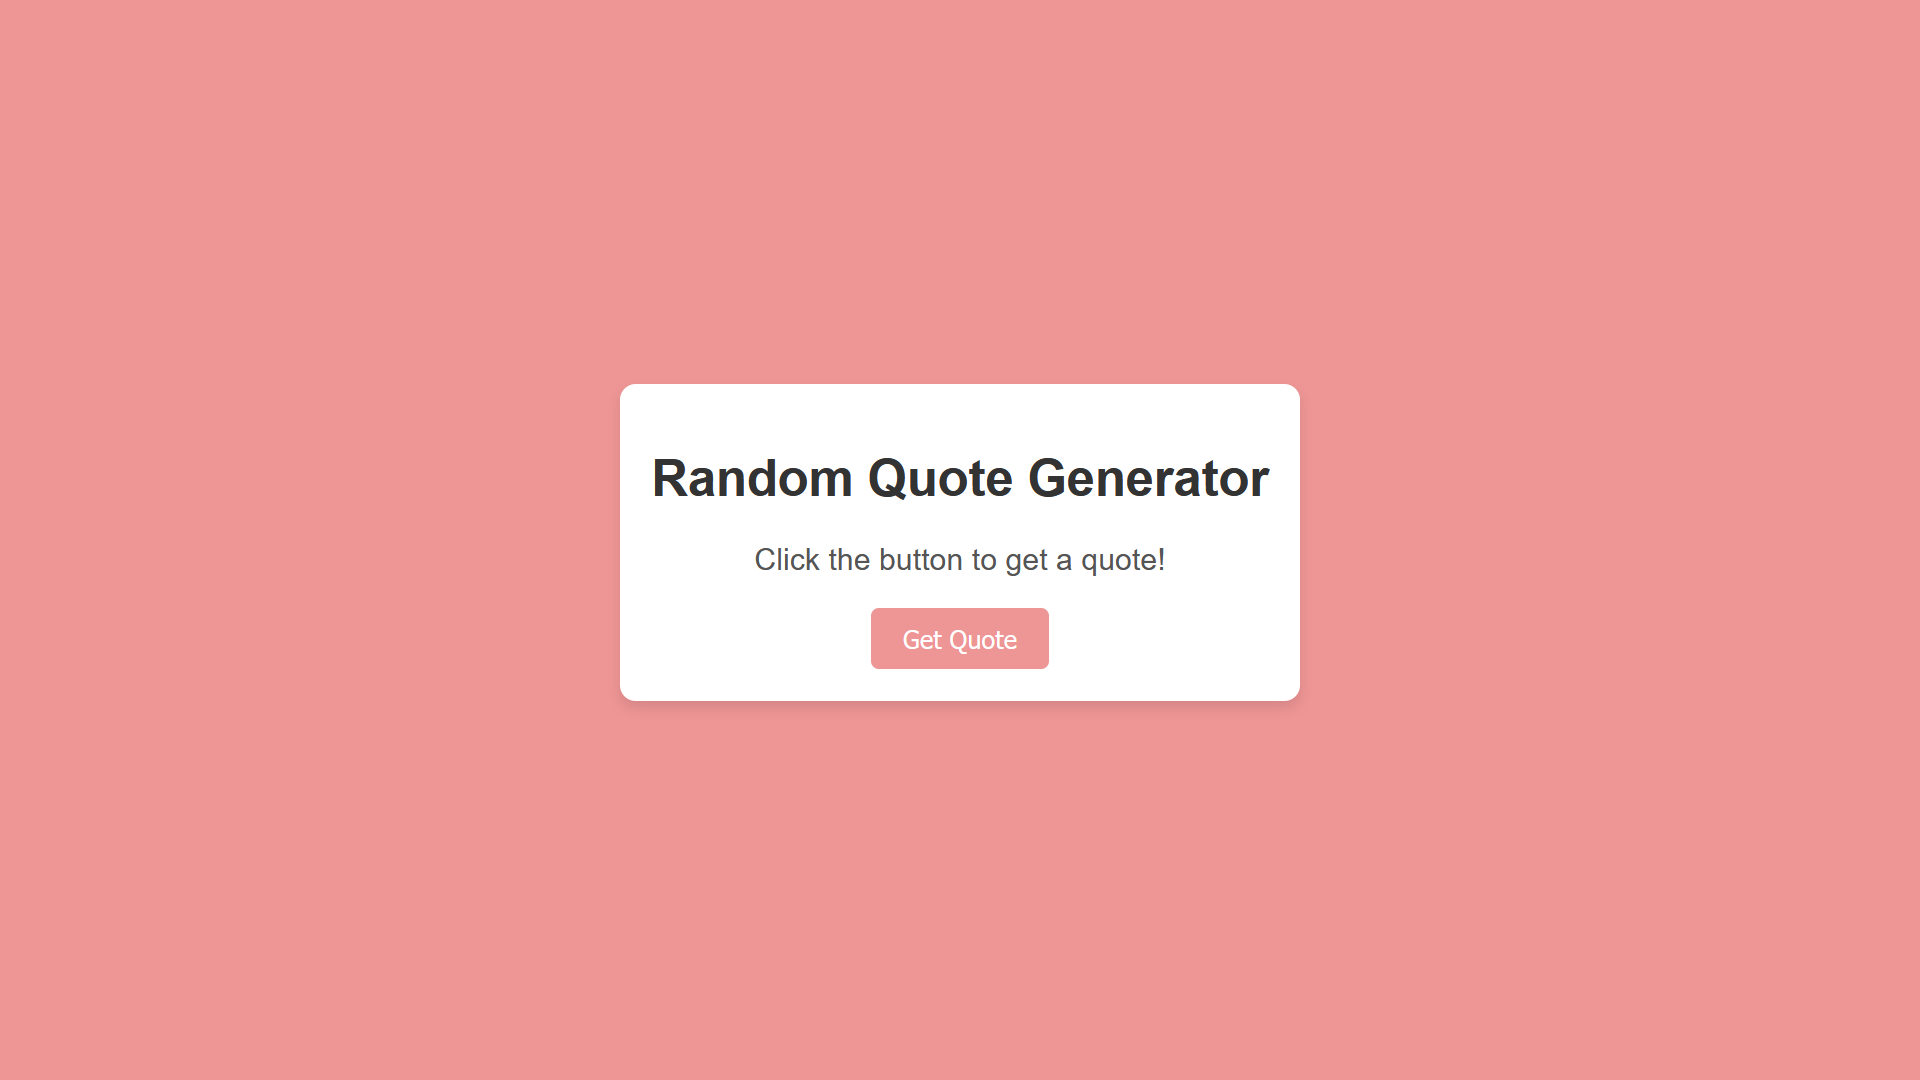
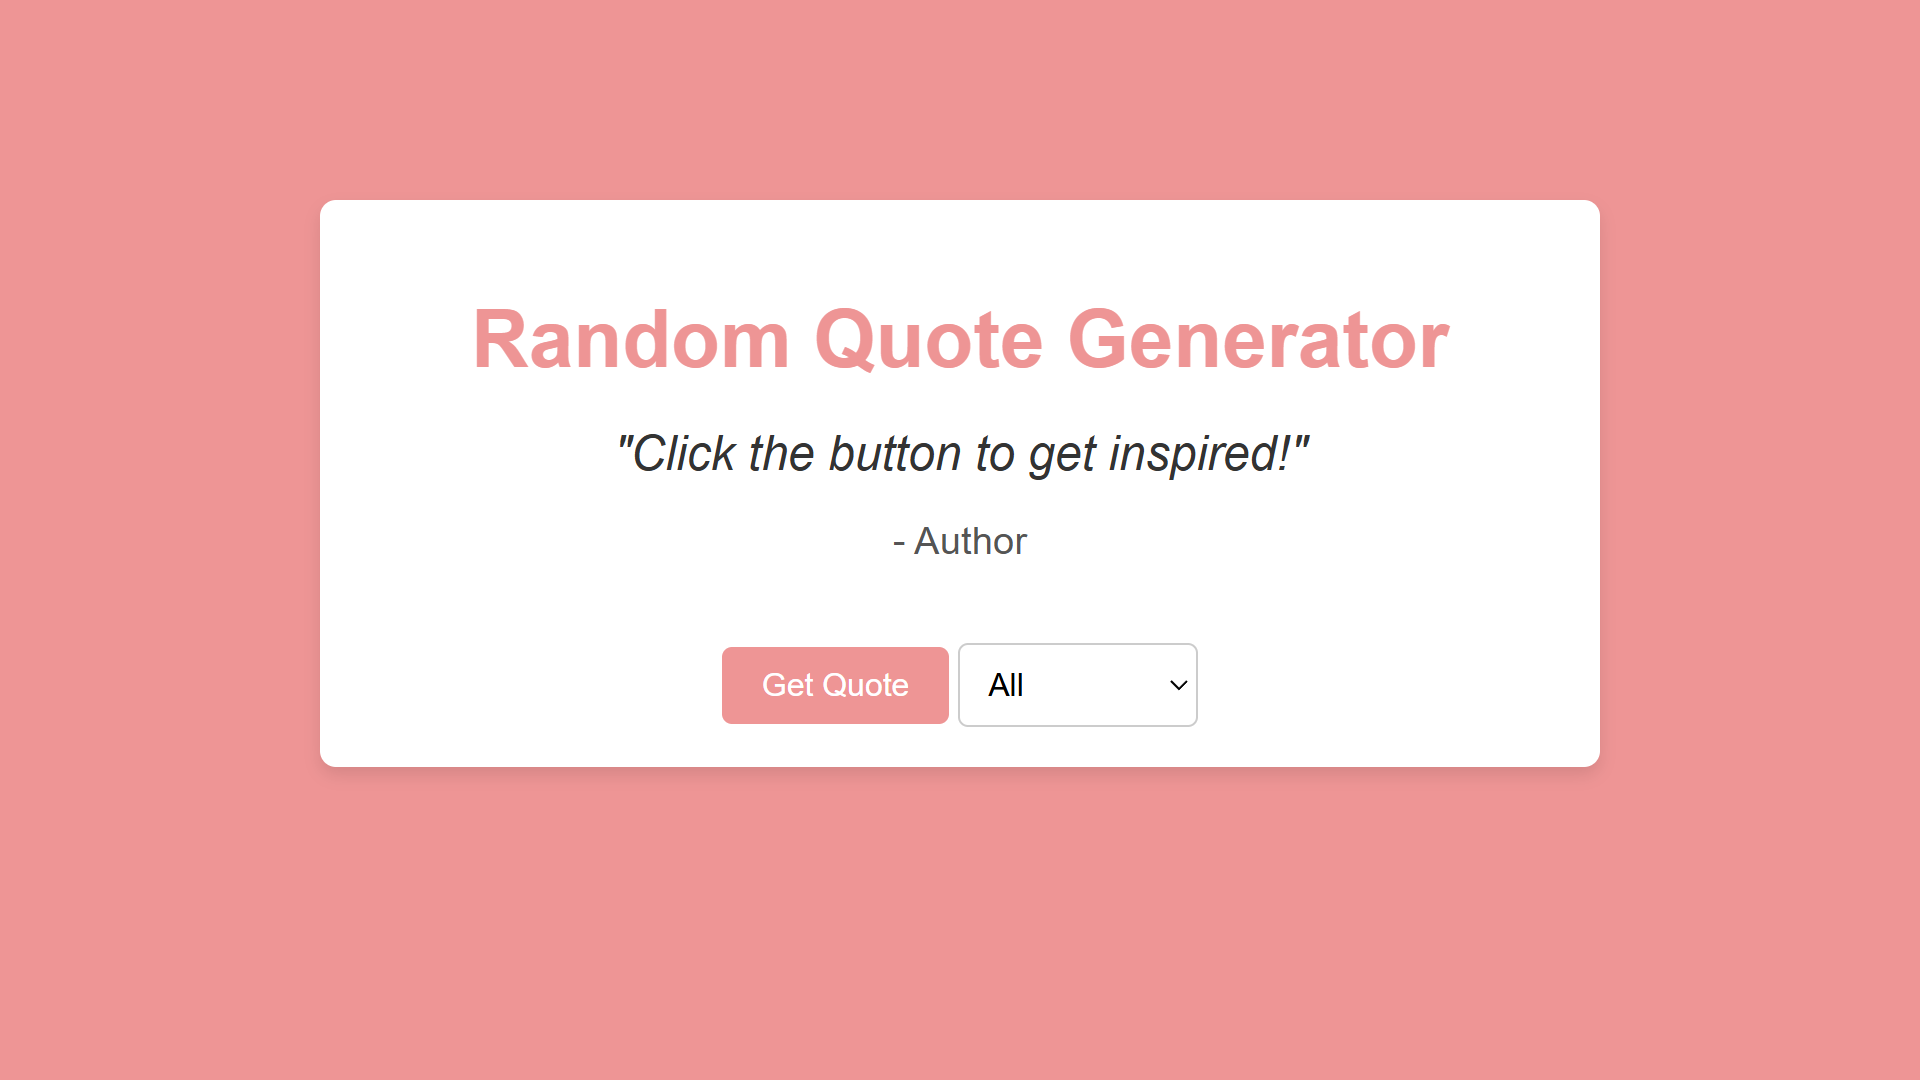
Enhanced all the files

Changed region(s): [[0.1562, 0.1833, 0.8438, 0.7333]]

diff --git a/script.js b/script.js
@@ -1,15 +1,42 @@
-const quotes = [
-    "The only way to do great work is to love what you do. – Steve Jobs",
-    "Success is not the key to happiness. Happiness is the key to success. – Albert Schweitzer",
-    "Your time is limited, so don't waste it living someone else's life. – Steve Jobs",
-    "Believe you can and you're halfway there. – Theodore Roosevelt",
-    "The best way to predict the future is to invent it. – Alan Kay",
-];
+document.addEventListener("DOMContentLoaded", () => {
+  const quoteBox = document.getElementById("quote");
+  const authorBox = document.getElementById("author");
+  const newQuoteBtn = document.getElementById("new-quote");
+  const categorySelect = document.getElementById("category");
 
-const quoteElement = document.getElementById('quote');
-const newQuoteButton = document.getElementById('new-quote');
+  let quotes = [];
 
-newQuoteButton.addEventListener('click', () => {
-    const randomIndex = Math.floor(Math.random() * quotes.length);
-    quoteElement.textContent = quotes[randomIndex];
+  // Fetch quotes from JSON file
+  fetch("quotes.json")
+    .then((response) => response.json())
+    .then((data) => {
+      quotes = data;
+    })
+    .catch((error) => console.error("Error loading quotes:", error));
+
+  const getQuote = (category = "all") => {
+    const filteredQuotes =
+      category === "all"
+        ? quotes
+        : quotes.filter((q) => q.category === category);
+    if (filteredQuotes.length === 0) {
+      return {
+        text: "No quotes available for this category.",
+        author: "System",
+      };
+    }
+    const randomQuote =
+      filteredQuotes[Math.floor(Math.random() * filteredQuotes.length)];
+    return randomQuote;
+  };
+
+  const displayQuote = () => {
+    const category = categorySelect.value;
+    const quote = getQuote(category);
+    quoteBox.textContent = quote.text;
+    authorBox.textContent = `- ${quote.author}`;
+  };
+
+  newQuoteBtn.addEventListener("click", displayQuote);
+  categorySelect.addEventListener("change", displayQuote);
 });

diff --git a/style.css b/style.css
@@ -1,40 +1,61 @@
 body {
     font-family: Arial, sans-serif;
     text-align: center;
-    background-color: #EE9595;
+    background: #EE9595;
+    color: #333;
     margin: 0;
     padding: 0;
 }
 
 .container {
-    margin-top: 20%;
+    max-width: 600px;
+    margin: 100px auto;
     padding: 20px;
-    background-color: #fff;
-    border-radius: 10px;
+    background: #fff;
+    border-radius: 8px;
     box-shadow: 0 4px 8px rgba(0, 0, 0, 0.1);
-    display: inline-block;
 }
 
 h1 {
-    color: #333;
+    font-size: 2.5rem;
+    margin-bottom: 20px;
+    color: #EE9595;
 }
 
-p {
+#quote-box {
+    margin: 20px 0;
+}
+
+#quote {
+    font-size: 1.5rem;
+    font-style: italic;
+    margin: 10px 0;
+}
+
+#author {
     font-size: 1.2rem;
     color: #555;
-    margin: 20px 0;
 }
 
 button {
     padding: 10px 20px;
     font-size: 1rem;
+    background: #EE9595;
     color: #fff;
-    background-color: #EE9595;
     border: none;
     border-radius: 5px;
     cursor: pointer;
+    transition: background 0.3s;
 }
 
 button:hover {
-    background-color: #b46565;
+    background: #a96969;
+}
+
+select {
+    margin-top: 20px;
+    padding: 10px;
+    font-size: 1rem;
+    border: 1px solid #ccc;
+    border-radius: 5px;
 }

diff --git a/index.html b/index.html
@@ -9,8 +9,17 @@
 <body>
     <div class="container">
         <h1>Random Quote Generator</h1>
-        <p id="quote">Click the button to get a quote!</p>
+        <div id="quote-box">
+            <p id="quote">"Click the button to get inspired!"</p>
+            <p id="author">- Author</p>
+        </div>
         <button id="new-quote">Get Quote</button>
+        <select id="category">
+            <option value="all">All</option>
+            <option value="inspiration">Inspiration</option>
+            <option value="happiness">Happiness</option>
+            <option value="education">Education</option>
+        </select>
     </div>
     <script src="script.js"></script>
 </body>
